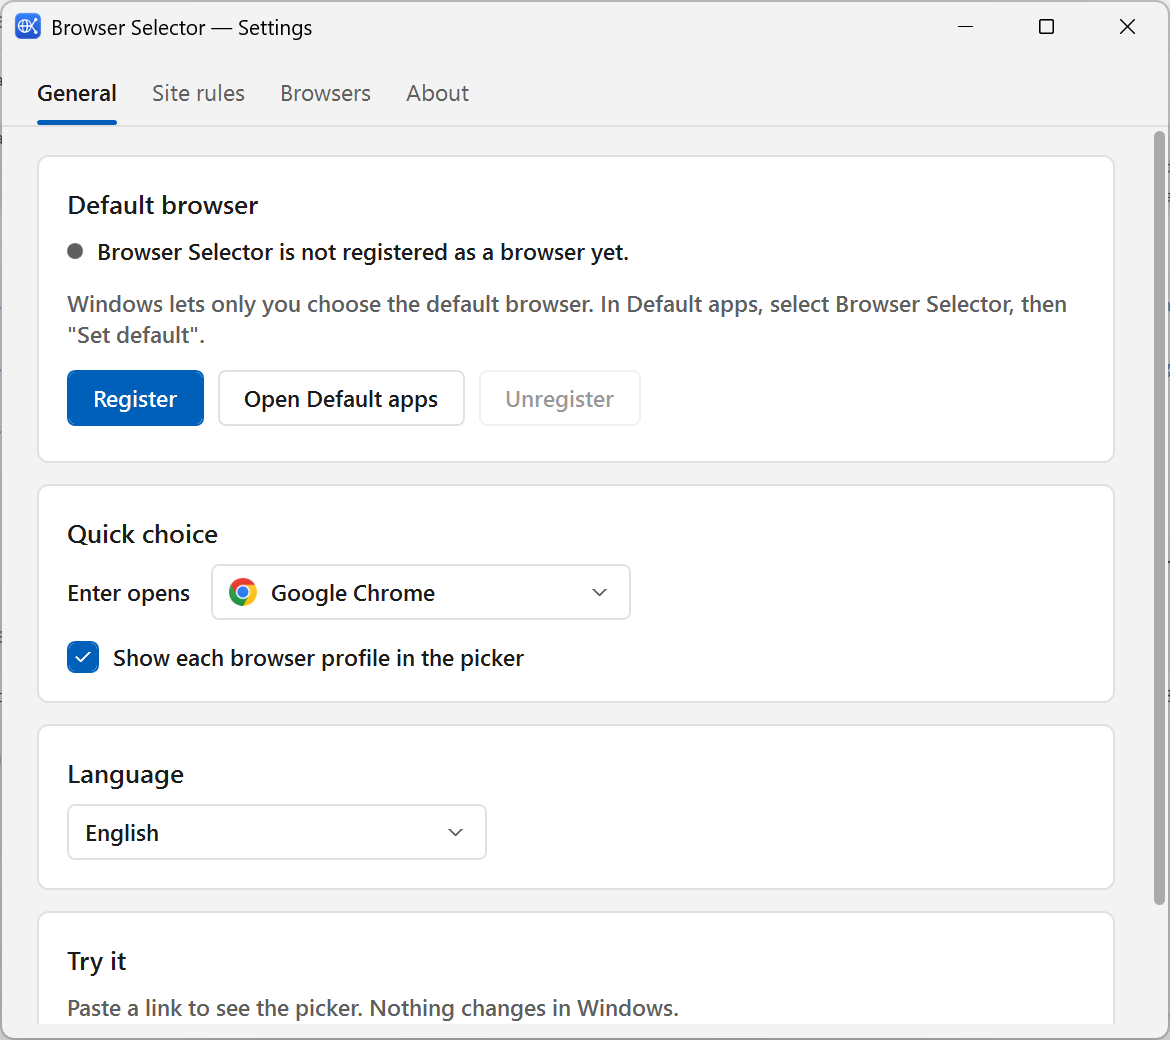
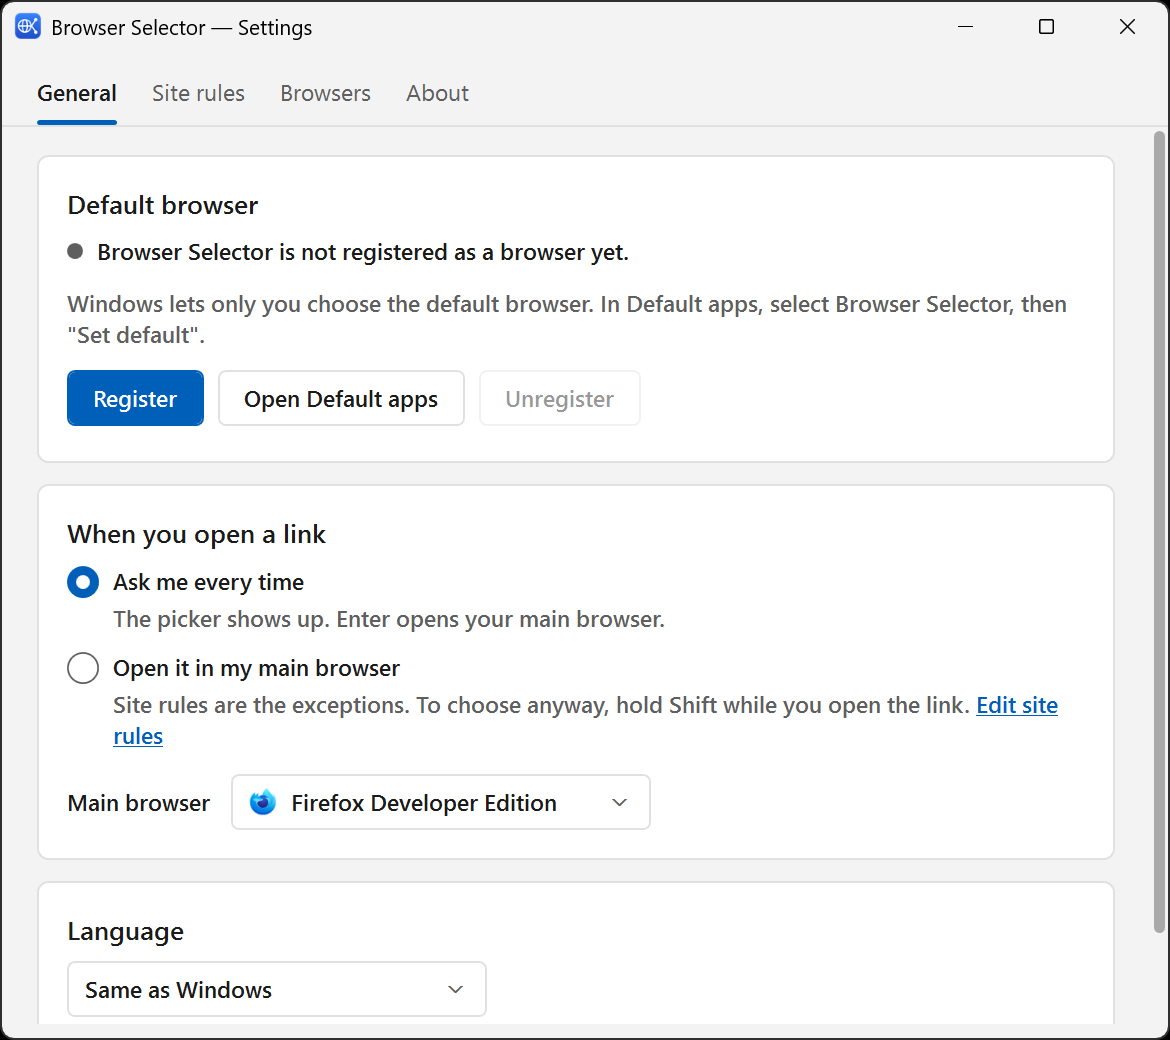
README: the two link modes, Shift, and Advanced options

Changed region(s): [[0.0308, 0.4923, 0.9538, 0.8615], [0.0, 0.0, 1.0, 1.0], [0.0, 0.0, 0.0308, 0.0308]]

diff --git a/README.md b/README.md
@@ -14,10 +14,12 @@ can skip the question.
 
 ## Features
 
+- **One simple choice**: ask every time, or open links in your main browser without asking, with
+  site rules as the exceptions. Everything else waits under "Advanced options".
 - **Finds your browsers by itself**: Chrome, Edge, Firefox, Brave, Vivaldi, Opera, and any other
   browser registered with Windows, with their icons.
 - **A small, fast picker** that opens next to the mouse: press `1`–`9`, or `Enter` for your
-  default choice, or `Esc` to cancel.
+  main browser, or `Esc` to cancel.
 - **Site rules**: "Always open github.com this way" sends that site (and its subdomains) straight to
   a browser, without asking.
 - **Profiles and private windows**: each Chrome/Edge/Brave/Vivaldi profile and each Firefox profile
@@ -46,6 +48,17 @@ Windows doesn't let apps make themselves the default browser, so this takes two 
 To stop using it, choose another default browser in Default apps, then click **Unregister**.
 From a script: `BrowserSelector.exe --register` and `BrowserSelector.exe --unregister`.
 
+## Ask, or open in your main browser
+
+**Settings → General → When you open a link** has two choices:
+
+- **Ask me every time**: every link shows the picker. `Enter` opens your main browser.
+- **Open it in my main browser**: links open straight away in the main browser you pick there,
+  except sites that have a rule. To choose anyway, **hold `Shift`** while you open the link
+  and the picker shows up.
+
+Site rules apply in both cases.
+
 <p align="center"><img src="docs/settings.png" width="70%" alt="Settings"></p>
 
 ## Using the picker
@@ -53,15 +66,14 @@ From a script: `BrowserSelector.exe --register` and `BrowserSelector.exe --unreg
 | Key | Action |
 | --- | --- |
 | `1` – `9` | Open with that browser or profile |
-| `Enter` | Open with the highlighted entry (it starts on your default choice; arrows move it) |
+| `Enter` | Open with the highlighted entry (it starts on your main browser; arrows move it) |
 | `Shift` + number, `Shift` + `Enter`, `Shift` + click | Open in a private window |
 | `Ctrl` + `C` | Copy the link |
 | `Esc` | Close without opening anything |
 
-Choose the entry that `Enter` opens in **Settings → General → Quick choice**. The **Try it** box there
-tests any link without changing anything in Windows: **Open picker** always asks, and
-**Open like a link** does what a real click would (follows your site rules, or asks) and tells you
-which rule matched.
+The **Try it** box under **Settings → General → Advanced options** tests any link without changing
+anything in Windows: **Open picker** always asks, and **Open like a link** does what a real click
+would (a site rule, your main browser, or the picker) and tells you which one it used.
 
 ## Site rules
 
@@ -70,7 +82,7 @@ Tick **Always open *site* this way** in the picker, or add a rule in **Settings 
 - A rule for `github.com` also covers `gist.github.com`; the most specific rule wins.
 - `www.` is ignored, so `www.youtube.com` and `youtube.com` are the same site.
 - A rule can open a profile, and can open a private window.
-- If a rule's browser is uninstalled, the picker shows up again.
+- If a rule's browser is uninstalled, the link is handled as if there were no rule.
 
 <p align="center"><img src="docs/rules.png" width="70%" alt="Site rules"></p>
 
@@ -83,7 +95,7 @@ Tick **Always open *site* this way** in the picker, or add a rule in **Settings 
 | Firefox, Firefox Developer Edition, LibreWolf, Waterfox, Floorp, Zen | `profiles.ini` | `-P` | `-private-window` |
 
 A browser with only one profile shows as a single entry. Turn profiles off in
-**Settings → General** to show one entry per browser.
+**Settings → General → Advanced options** to show one entry per browser.
 
 ## Settings file
 
